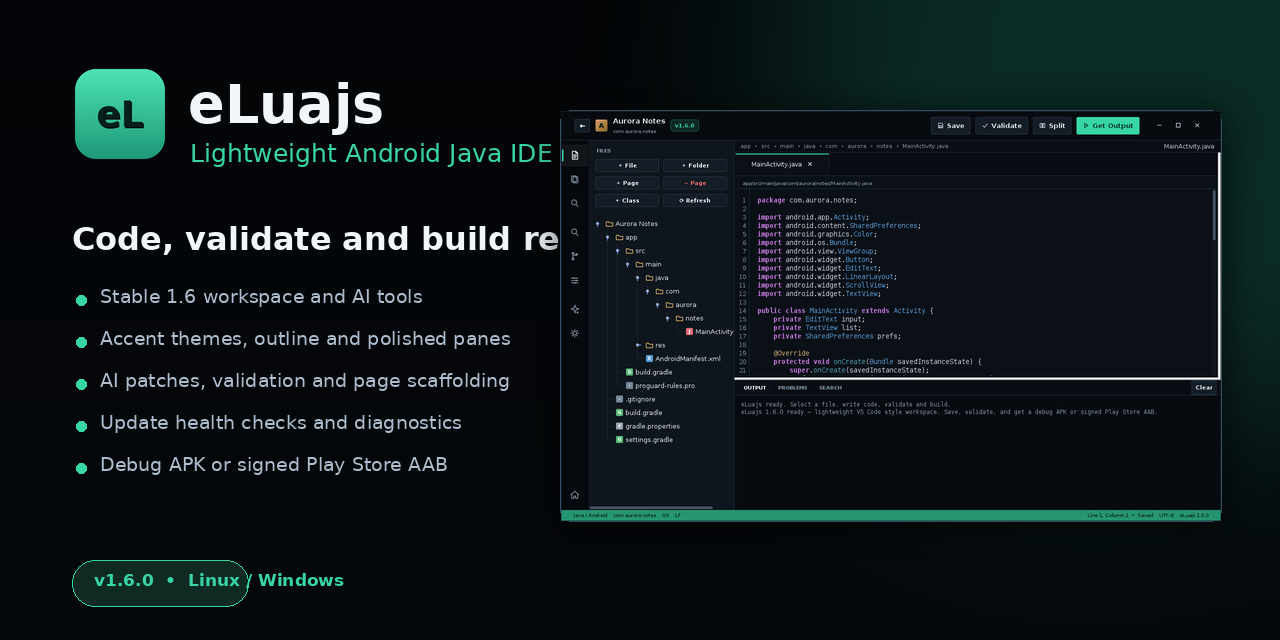
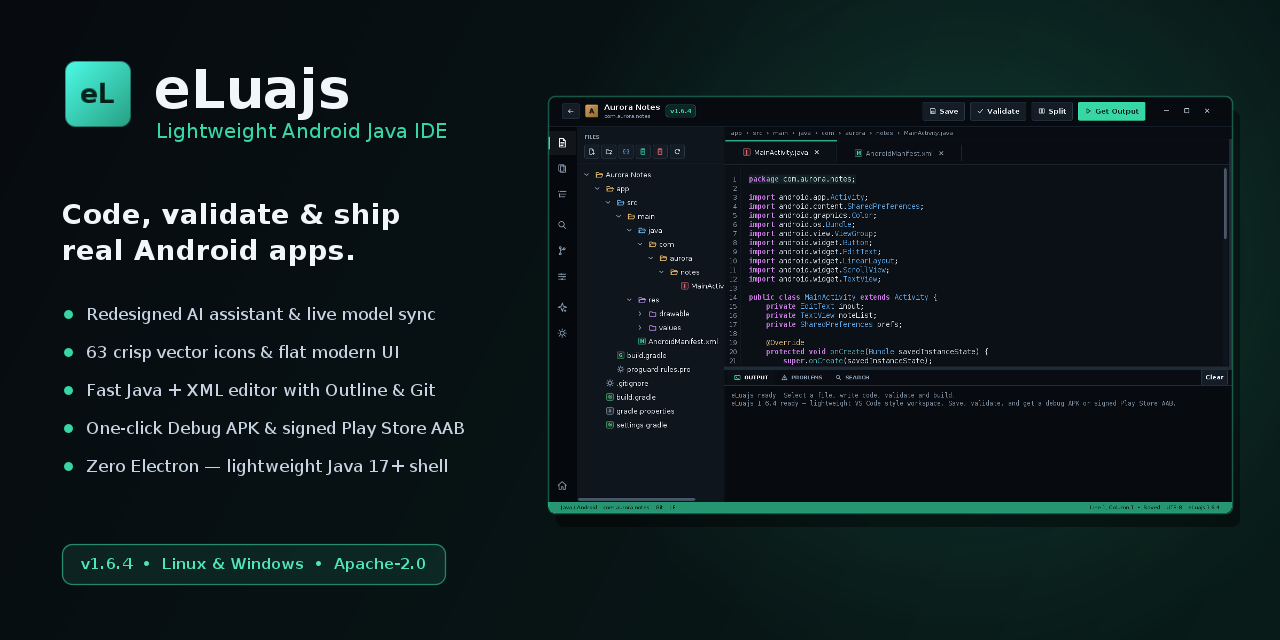
docs: refresh demo screenshots and social preview for v1.6.4
Replaces v1.6.0 screenshots with fresh v1.6.4 demo-project captures showcasing the redesigned AI chat, 63-icon vector pack, decluttered editor chrome, flat controls, updated Project Tools, Build dialog, Output chooser, and social preview banner.

diff --git a/README.md b/README.md
@@ -67,22 +67,22 @@ All links below always point to the **latest release**.
 
 | Hub | Editor |
 | --- | --- |
-| ![Hub](docs/hub-v160.png) | ![Editor](docs/editor-v160.png) |
+| ![Hub](docs/hub-v164.png) | ![Editor](docs/editor-v164.png) |
 
 <p align="center">
-  <img src="docs/ai-v160.png" alt="eLuajs AI assistant">
+  <img src="docs/ai-v164.png" alt="eLuajs AI assistant">
 </p>
 
 <p align="center">
-  <img src="docs/tools-v160.png" alt="eLuajs project tools">
+  <img src="docs/tools-v164.png" alt="eLuajs project tools">
 </p>
 
 <p align="center">
-  <img src="docs/build-v160.png" alt="eLuajs build output window">
+  <img src="docs/build-v164.png" alt="eLuajs build output window">
 </p>
 
 <p align="center">
-  <img src="docs/output-v160.png" alt="eLuajs output chooser">
+  <img src="docs/output-v164.png" alt="eLuajs output chooser">
 </p>
 
 ## Features
